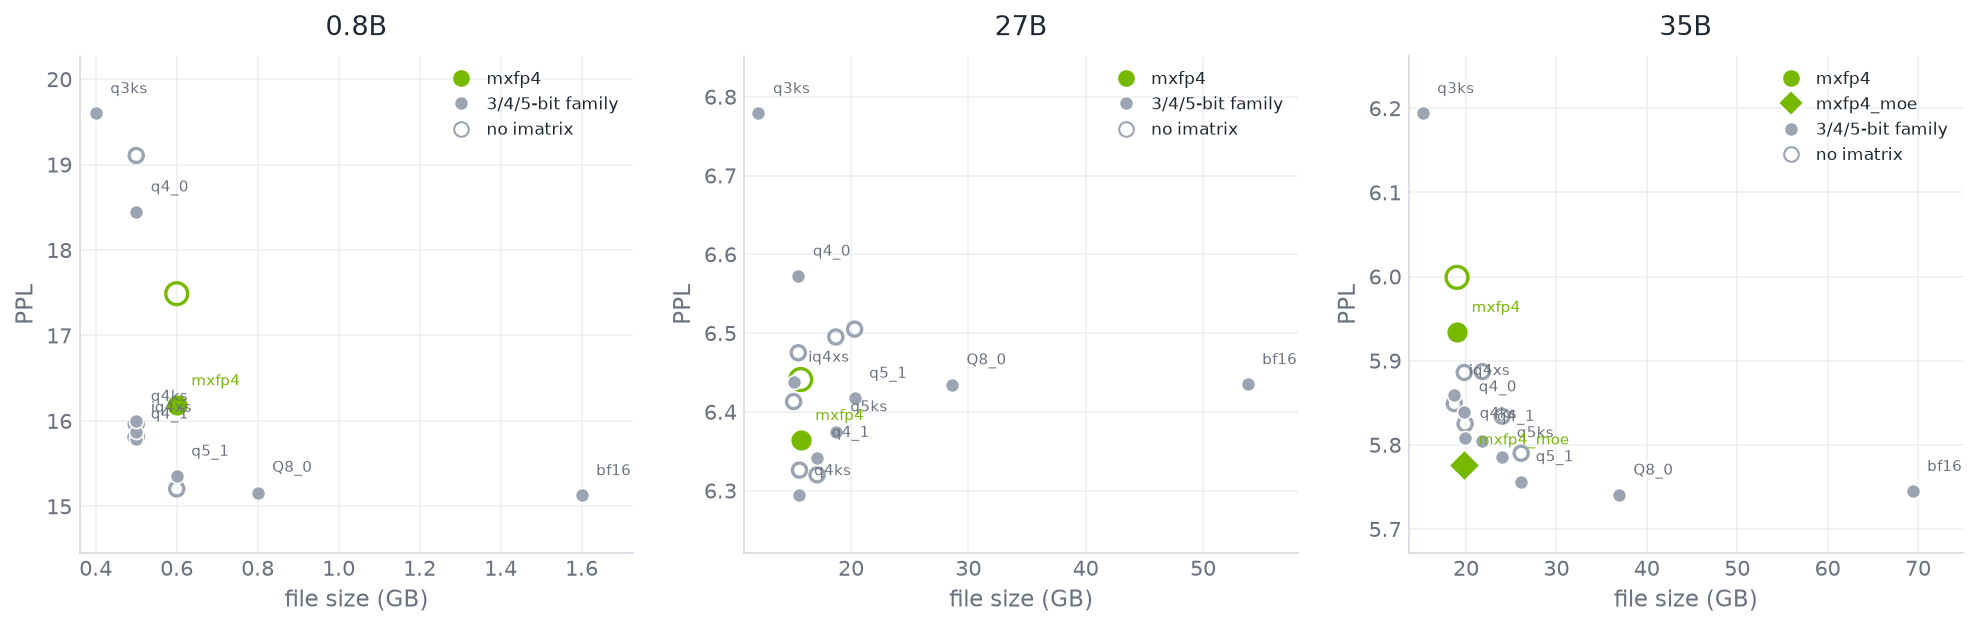
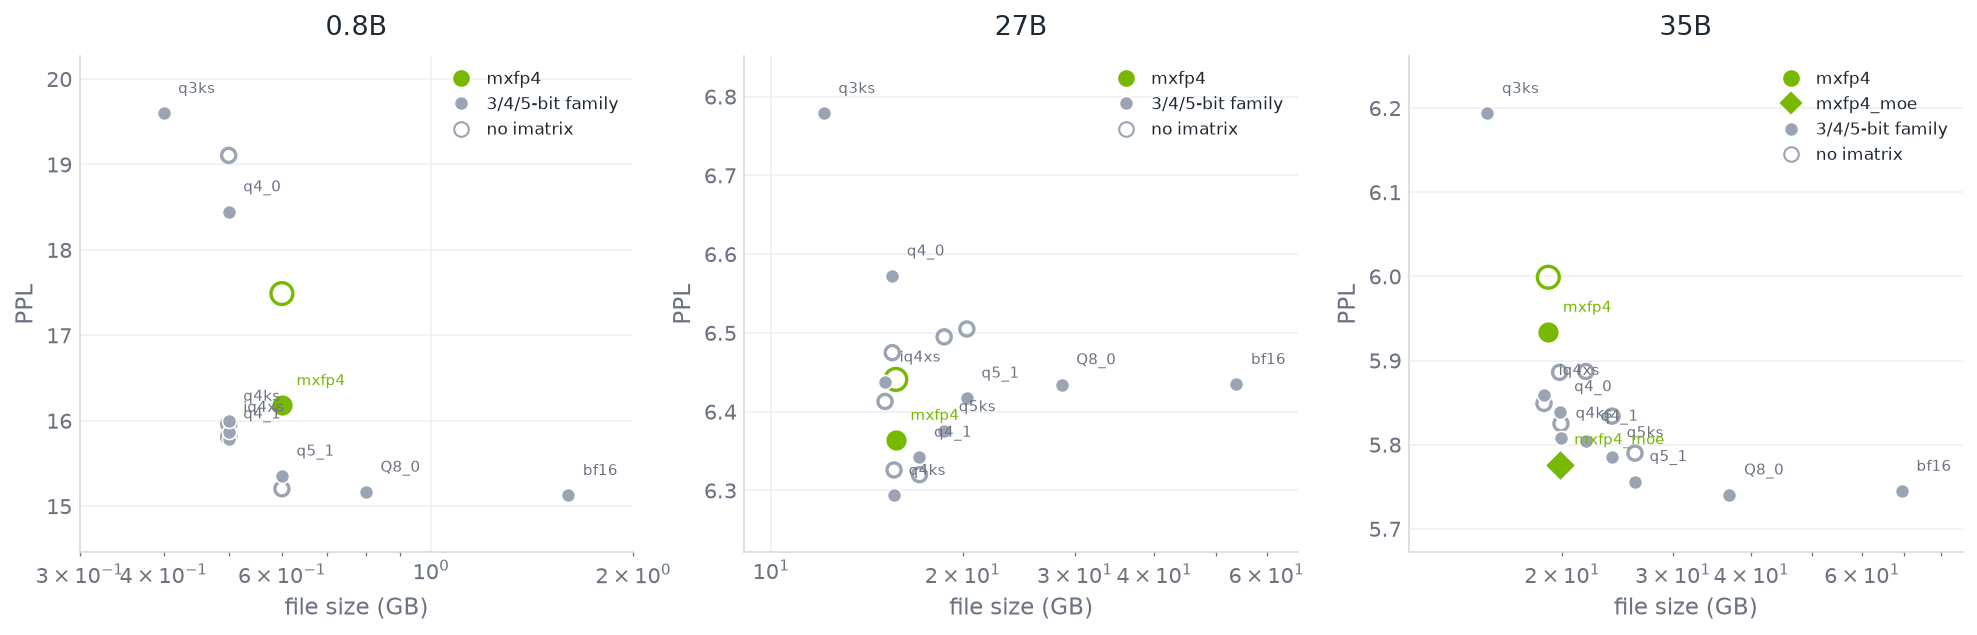
ppl-vs-size: log x-axis to spread out the file sizes

diff --git a/charts.py b/charts.py
@@ -149,9 +149,9 @@ def scatter_quant_points(ax, rows):
 def ppl_vs_size():
     fig, axgrid = new_figure(1, 3, w=5.4, h=4.3)
     for ax, (model, rows) in zip(axgrid, PPL.items()):
-        style_axes(ax, title=model, xlabel="file size (GB)", ylabel="PPL")
+        style_axes(ax, title=model, xlabel="file size (GB)", ylabel="PPL", xlog=True)
         scatter_quant_points(ax, rows)
-        ax.set_xlim(min(r[1] for r in rows) * 0.9, max(r[1] for r in rows) * 1.08)
+        ax.set_xlim(min(r[1] for r in rows) * 0.75, max(r[1] for r in rows) * 1.25)
         ymin, ymax = min(r[2] for r in rows), max(r[2] for r in rows)
         pad = (ymax - ymin) * 0.15
         ax.set_ylim(ymin - pad, ymax + pad)
